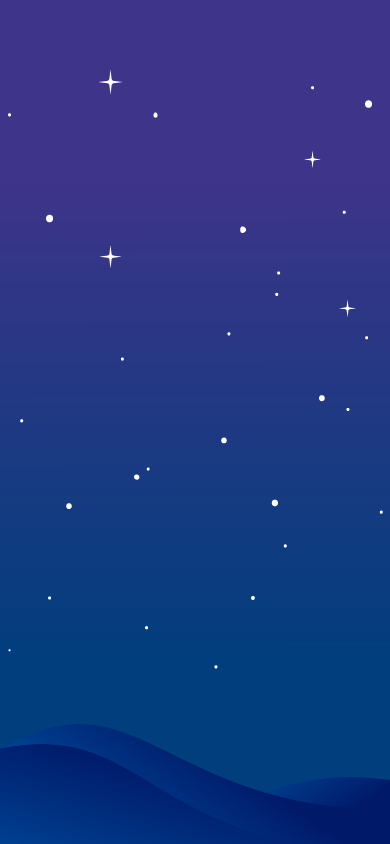
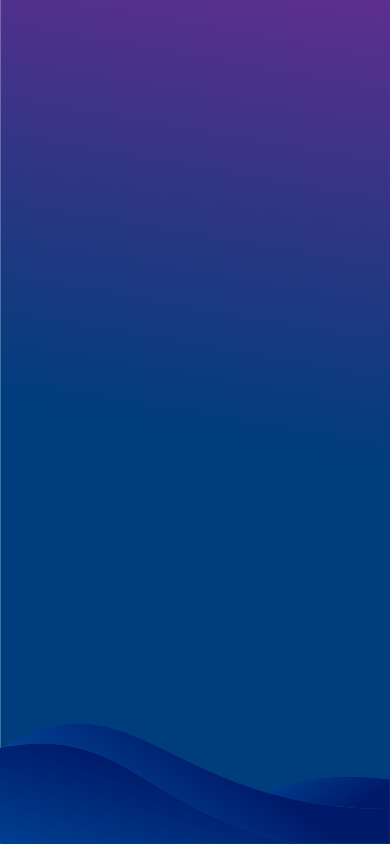
style : assets 배경 잘림 해결

diff --git a/NearCatch/Views/ContentView.swift b/NearCatch/Views/ContentView.swift
@@ -19,9 +19,16 @@ struct ContentView: View {
             HomeView()
             
             if !isContentReady {
-                LottieView(jsonName: "NearCatStanding")
-                    .background(Color.white.edgesIgnoringSafeArea(.all))
-                    .transition(.opacity)
+                
+                ZStack{
+                    Image("img_background")
+                        .ignoresSafeArea(.all)
+                    
+                    LottieView(jsonName: "NearCatStanding")
+                        .transition(.opacity)
+                    
+                }
+               
             }
             
         }

diff --git a/NearCatch/Views/Home/Components/HomeMainButton.swift b/NearCatch/Views/Home/Components/HomeMainButton.swift
@@ -46,10 +46,6 @@ struct HomeMainButton: View {
                         
                     } else {
                         LottieView(jsonName: "Star", loopMode: .loop)
-//                        Image("img_stars")
-//                            .resizable()
-//                            .scaledToFit()
-//                            .frame(width: 93, height: 93)
                     }
                                 
                     Image("img_bubble_197px")

diff --git a/NearCatch/Views/Home/HomeView.swift b/NearCatch/Views/Home/HomeView.swift
@@ -13,7 +13,7 @@ struct HomeView: View {
     
     var body: some View {
         ZStack() {
-            Image("img_basicbackground")
+            Image("img_background")
                 .resizable()
                 .ignoresSafeArea()
             
